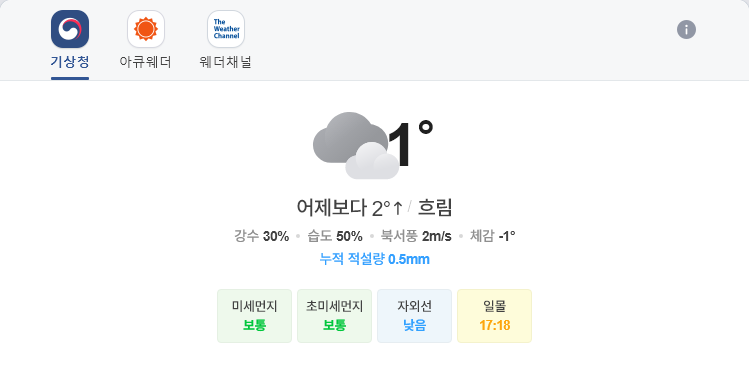
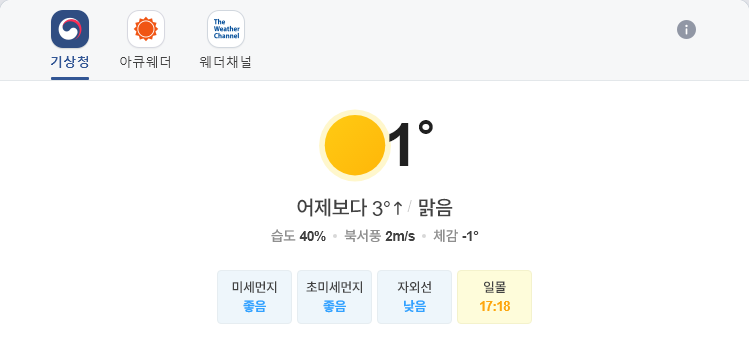
update result

diff --git a/README.md b/README.md
@@ -1,13 +1,13 @@
-##  2020-12-18 12:07:32   금요일 
-##### 날씨   -   어제보다 2° 높아요흐림  
+##  2020-12-18 16:03:18   금요일 
+##### 날씨   -   어제보다 1° 높아요맑음  
 <center><img src="../img/naver_weather_week.png"></center>
 ----
 ----
 ##### 지수
 <table border="1" bordercolor="blue" align = "center" >
 <tr align = "right" > <td>Item</td><td>Point</td><td>Diff</td><td>Rate</td><td>Buy</td><td>Sell</td><td>...</td>  </tr>
-<tr align = "right" > <td>KOSPI</td><td>2,775.82</td><td>5.39</td><td><font size="3" color="red" >0.19%</font> </td><td><font size="3" color="black">2,000</font></td><td><font size="3" color="black">3,000</font></td><td>0</td>  </tr>
-<tr align = "right" > <td>KOSDAQ</td><td>946.77</td><td>2.73</td><td><font size="3" color="red" >0.29%</font> </td><td><font size="3" color="black">0</font></td><td><font size="3" color="black">0</font></td><td>0</td>  </tr>
+<tr align = "right" > <td>KOSPI</td><td>2,772.18</td><td>1.75</td><td><font size="3" color="red" >0.06%</font> </td><td><font size="3" color="black">2,000</font></td><td><font size="3" color="black">3,000</font></td><td>0</td>  </tr>
+<tr align = "right" > <td>KOSDAQ</td><td>947.24</td><td>3.2</td><td><font size="3" color="red" >0.34%</font> </td><td><font size="3" color="black">0</font></td><td><font size="3" color="black">0</font></td><td>0</td>  </tr>
 </table>
 ----
 ##### 세계
@@ -16,14 +16,14 @@
 <tr align = "right" > <td>DOW</td><td>30,303.37</td><td>148.83</td><td><font size="3" color="red" >0.49%</font></td><td><font size="3" color="black">0</font></td><td><font size="3" color="black">0</font></td><td>0</td>  </tr>
 <tr align = "right" > <td>NASDAQ</td><td>12,764.75</td><td>106.56</td><td><font size="3" color="red" >0.84%</font></td><td><font size="3" color="black">0</font></td><td><font size="3" color="black">0</font></td><td>0</td>  </tr>
 <tr align = "right" > <td>S&P</td><td>3,722.48</td><td>21.31</td><td><font size="3" color="red" >0.58%</font></td><td><font size="3" color="black">0</font></td><td><font size="3" color="black">0</font></td><td>0</td>  </tr>
-<tr align = "right" > <td>SHANHAI</td><td>3,404.05</td><td>-0.82</td><td><font size="3" color="blue" >-0.02%</font></td><td><font size="3" color="black">0</font></td><td><font size="3" color="black">0</font></td><td>0</td>  </tr>
-<tr align = "right" > <td>INDIA</td><td>46,890.34</td><td>223.88</td><td><font size="3" color="red" >0.48%</font></td><td><font size="3" color="black">0</font></td><td><font size="3" color="black">0</font></td><td>0</td>  </tr>
+<tr align = "right" > <td>SHANHAI</td><td>3,392.63</td><td>-12.24</td><td><font size="3" color="blue" >-0.36%</font></td><td><font size="3" color="black">0</font></td><td><font size="3" color="black">0</font></td><td>0</td>  </tr>
+<tr align = "right" > <td>INDIA</td><td>46,766.87</td><td>-123.47</td><td><font size="3" color="blue" >-0.26%</font></td><td><font size="3" color="black">0</font></td><td><font size="3" color="black">0</font></td><td>0</td>  </tr>
 </table>
 ----
 ##### 시장
 <table border="1" bordercolor="blue" align = "center" >
 <tr align = "right" > <td>Item</td><td>Price</td><td>Diff</td><td>Rate</td><td>Buy</td><td>Sell</td><td>...</td>  </tr>
-<tr align = "right" > <td>USD</td><td>1,097.0</td><td>3.7</td><td><font size="3" color="red">0.34%</font></td><td><font size="3" color="orangered">1,110</font></td><td><font size="3" color="black">0</font></td><td>0</td>  </tr>
+<tr align = "right" > <td>USD</td><td>1,098.0</td><td>4.5</td><td><font size="3" color="red">0.41%</font></td><td><font size="3" color="orangered">1,110</font></td><td><font size="3" color="black">0</font></td><td>0</td>  </tr>
 <tr align = "right" > <td>WTI</td><td>48.36</td><td>0.54</td><td><font size="3" color="red">1.12%</font></td><td><font size="3" color="black">29.0</font></td><td><font size="3" color="black">0</font></td><td>0</td>  </tr>
 <tr align = "right" > <td>GOLD</td><td>1,887.0</td><td>31.1</td><td><font size="3" color="red">1.67%</font></td><td><font size="3" color="black">0</font></td><td><font size="3" color="black">0</font></td><td>0</td>  </tr>
 </table>
@@ -31,23 +31,23 @@
 ##### 주가
 <table border="1" bordercolor="blue" align = "center" >
 <tr align = "right" > <td>Item</td><td>Price</td><td>Diff</td><td>Rate</td><td>Purchased</td><td>Sell</td><td>Buy</td>  </tr>
-<tr align = "right" > <td>한국 전력</td><td>28,100</td><td>2,100</td><td><font size="3" color="red">8.08%</font></td><td>25,720</td><td><font size="3" color="black">30,000</font></td><td><font size="3" color="black">14,000</font></td>  </tr>
-<tr align = "right" > <td>삼성엔지니어.</td><td>13,150</td><td>100</td><td><font size="3" color="red">0.77%</font></td><td>18,935</td><td><font size="3" color="black">20,000</font></td><td><font size="3" color="black">8,000</font></td>  </tr>
-<tr align = "right" > <td>CJ CGV</td><td>24,000</td><td>400</td><td><font size="3" color="red">1.69%</font></td><td>34,895</td><td><font size="3" color="black">36,000</font></td><td><font size="3" color="black">0</font></td>  </tr>
+<tr align = "right" > <td>한국 전력</td><td>28,300</td><td>2,300</td><td><font size="3" color="red">8.85%</font></td><td>25,720</td><td><font size="3" color="black">30,000</font></td><td><font size="3" color="black">14,000</font></td>  </tr>
+<tr align = "right" > <td>삼성엔지니어.</td><td>13,050</td><td>0</td><td><font size="3" color="black">0.0%</font></td><td>18,935</td><td><font size="3" color="black">20,000</font></td><td><font size="3" color="black">8,000</font></td>  </tr>
+<tr align = "right" > <td>CJ CGV</td><td>24,300</td><td>700</td><td><font size="3" color="red">2.97%</font></td><td>34,895</td><td><font size="3" color="black">36,000</font></td><td><font size="3" color="black">0</font></td>  </tr>
 <tr align = "right" > <td>아모레퍼시픽</td><td>208,500</td><td>-500</td><td><font size="3" color="blue">-0.24%</font></td><td>235,350</td><td><font size="3" color="black">240,000</font></td><td><font size="3" color="black">130,000</font></td>  </tr>
-<tr align = "right" > <td>한화</td><td>26,650</td><td>100</td><td><font size="3" color="red">0.38%</font></td><td>25,550</td><td><font size="3" color="black">30,000</font></td><td><font size="3" color="black">20,000</font></td>  </tr>
-<tr align = "right" > <td>NAVER</td><td>284,500</td><td>-500</td><td><font size="3" color="blue">-0.18%</font></td><td>147,200</td><td><font size="3" color="black">400,000</font></td><td><font size="3" color="orangered">286,000</font></td>  </tr>
-<tr align = "right" > <td>LG 화학우</td><td>390,500</td><td>1,500</td><td><font size="3" color="red">0.39%</font></td><td>202,490</td><td><font size="3" color="black">500,000</font></td><td><font size="3" color="black">384,000</font></td>  </tr>
-<tr align = "right" > <td>스튜디오드래.</td><td>83,200</td><td>-600</td><td><font size="3" color="blue">-0.72%</font></td><td>81,243</td><td><font size="3" color="black">100,000</font></td><td><font size="3" color="black">78,000</font></td>  </tr>
-<tr align = "right" > <td>글로벌럭셔리</td><td>14,800</td><td>210</td><td><font size="3" color="red">1.44%</font></td><td>0</td><td><font size="3" color="black">15,000</font></td><td><font size="3" color="black">10,000</font></td>  </tr>
-<tr align = "right" > <td>QV미국IT</td><td>25,030</td><td>-105</td><td><font size="3" color="blue">-0.42%</font></td><td>0</td><td><font size="3" color="black">30,000</font></td><td><font size="3" color="black">20,000</font></td>  </tr>
-<tr align = "right" > <td>호텔 신라</td><td>81,900</td><td>200</td><td><font size="3" color="red">0.24%</font></td><td>72,800</td><td><font size="3" color="black">100,000</font></td><td><font size="3" color="black">70,000</font></td>  </tr>
-<tr align = "right" > <td>S-Oil</td><td>70,700</td><td>-500</td><td><font size="3" color="blue">-0.7%</font></td><td>62,842</td><td><font size="3" color="black">100,000</font></td><td><font size="3" color="black">50,000</font></td>  </tr>
-<tr align = "right" > <td>LG전자</td><td>96,300</td><td>-600</td><td><font size="3" color="blue">-0.62%</font></td><td>82,022</td><td><font size="3" color="black">100,000</font></td><td><font size="3" color="black">60,000</font></td>  </tr>
-<tr align = "right" > <td>지역난방공사</td><td>41,100</td><td>150</td><td><font size="3" color="red">0.37%</font></td><td>43,590</td><td><font size="3" color="black">60,000</font></td><td><font size="3" color="black">30,000</font></td>  </tr>
-<tr align = "right" > <td>KOEDX은행</td><td>6,205</td><td>-35</td><td><font size="3" color="blue">-0.56%</font></td><td>5,178</td><td><font size="3" color="black">6,000</font></td><td><font size="3" color="black">4,500</font></td>  </tr>
-<tr align = "right" > <td>삼성 전자우</td><td>68,700</td><td>-200</td><td><font size="3" color="blue">-0.29%</font></td><td>48,250</td><td><font size="3" color="black">56,000</font></td><td><font size="3" color="black">45,000</font></td>  </tr>
-<tr align = "right" > <td>한화에어로스.</td><td>28,900</td><td>300</td><td><font size="3" color="red">1.05%</font></td><td>25,700</td><td><font size="3" color="black">30,000</font></td><td><font size="3" color="black">24,000</font></td>  </tr>
-<tr align = "right" > <td>한국금융지주</td><td>75,900</td><td>300</td><td><font size="3" color="red">0.4%</font></td><td>0</td><td><font size="3" color="black">82,000</font></td><td><font size="3" color="black">60,000</font></td>  </tr>
+<tr align = "right" > <td>한화</td><td>26,400</td><td>-150</td><td><font size="3" color="blue">-0.56%</font></td><td>25,550</td><td><font size="3" color="black">30,000</font></td><td><font size="3" color="black">20,000</font></td>  </tr>
+<tr align = "right" > <td>NAVER</td><td>282,500</td><td>-2,500</td><td><font size="3" color="blue">-0.88%</font></td><td>147,200</td><td><font size="3" color="black">400,000</font></td><td><font size="3" color="orangered">286,000</font></td>  </tr>
+<tr align = "right" > <td>LG 화학우</td><td>393,500</td><td>4,500</td><td><font size="3" color="red">1.16%</font></td><td>202,490</td><td><font size="3" color="black">500,000</font></td><td><font size="3" color="black">384,000</font></td>  </tr>
+<tr align = "right" > <td>스튜디오드래.</td><td>83,100</td><td>-700</td><td><font size="3" color="blue">-0.84%</font></td><td>81,243</td><td><font size="3" color="black">100,000</font></td><td><font size="3" color="black">78,000</font></td>  </tr>
+<tr align = "right" > <td>글로벌럭셔리</td><td>14,885</td><td>295</td><td><font size="3" color="red">2.02%</font></td><td>0</td><td><font size="3" color="black">15,000</font></td><td><font size="3" color="black">10,000</font></td>  </tr>
+<tr align = "right" > <td>QV미국IT</td><td>25,065</td><td>-70</td><td><font size="3" color="blue">-0.28%</font></td><td>0</td><td><font size="3" color="black">30,000</font></td><td><font size="3" color="black">20,000</font></td>  </tr>
+<tr align = "right" > <td>호텔 신라</td><td>82,000</td><td>300</td><td><font size="3" color="red">0.37%</font></td><td>72,800</td><td><font size="3" color="black">100,000</font></td><td><font size="3" color="black">70,000</font></td>  </tr>
+<tr align = "right" > <td>S-Oil</td><td>70,600</td><td>-600</td><td><font size="3" color="blue">-0.84%</font></td><td>62,842</td><td><font size="3" color="black">100,000</font></td><td><font size="3" color="black">50,000</font></td>  </tr>
+<tr align = "right" > <td>LG전자</td><td>95,800</td><td>-1,100</td><td><font size="3" color="blue">-1.14%</font></td><td>82,022</td><td><font size="3" color="black">100,000</font></td><td><font size="3" color="black">60,000</font></td>  </tr>
+<tr align = "right" > <td>지역난방공사</td><td>41,400</td><td>450</td><td><font size="3" color="red">1.1%</font></td><td>43,590</td><td><font size="3" color="black">60,000</font></td><td><font size="3" color="black">30,000</font></td>  </tr>
+<tr align = "right" > <td>KOEDX은행</td><td>6,195</td><td>-45</td><td><font size="3" color="blue">-0.72%</font></td><td>5,178</td><td><font size="3" color="black">6,000</font></td><td><font size="3" color="black">4,500</font></td>  </tr>
+<tr align = "right" > <td>삼성 전자우</td><td>68,600</td><td>-300</td><td><font size="3" color="blue">-0.44%</font></td><td>48,250</td><td><font size="3" color="black">56,000</font></td><td><font size="3" color="black">45,000</font></td>  </tr>
+<tr align = "right" > <td>한화에어로스.</td><td>29,050</td><td>450</td><td><font size="3" color="red">1.57%</font></td><td>25,700</td><td><font size="3" color="black">30,000</font></td><td><font size="3" color="black">24,000</font></td>  </tr>
+<tr align = "right" > <td>한국금융지주</td><td>75,700</td><td>100</td><td><font size="3" color="red">0.13%</font></td><td>0</td><td><font size="3" color="black">82,000</font></td><td><font size="3" color="black">60,000</font></td>  </tr>
 </table>
 ----
